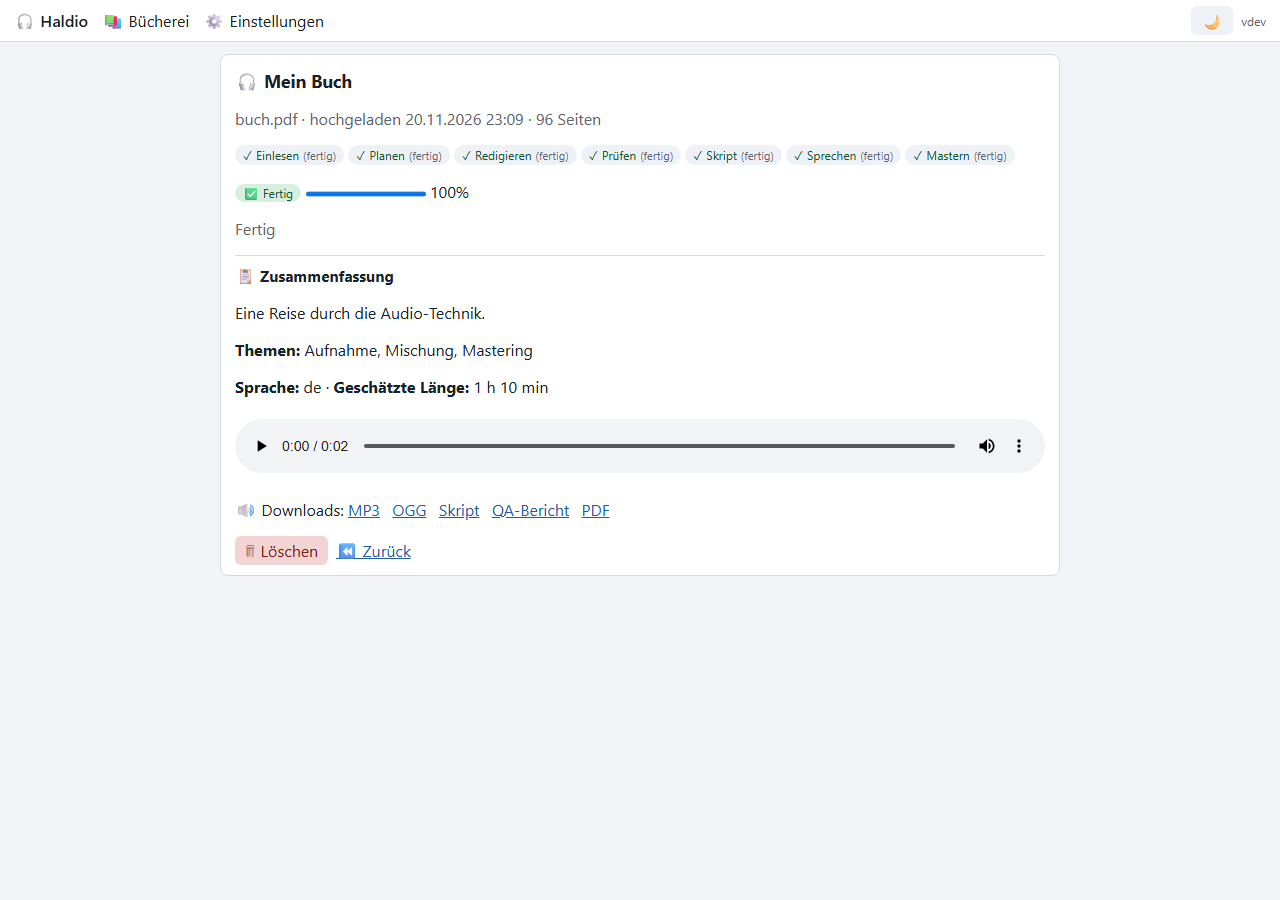
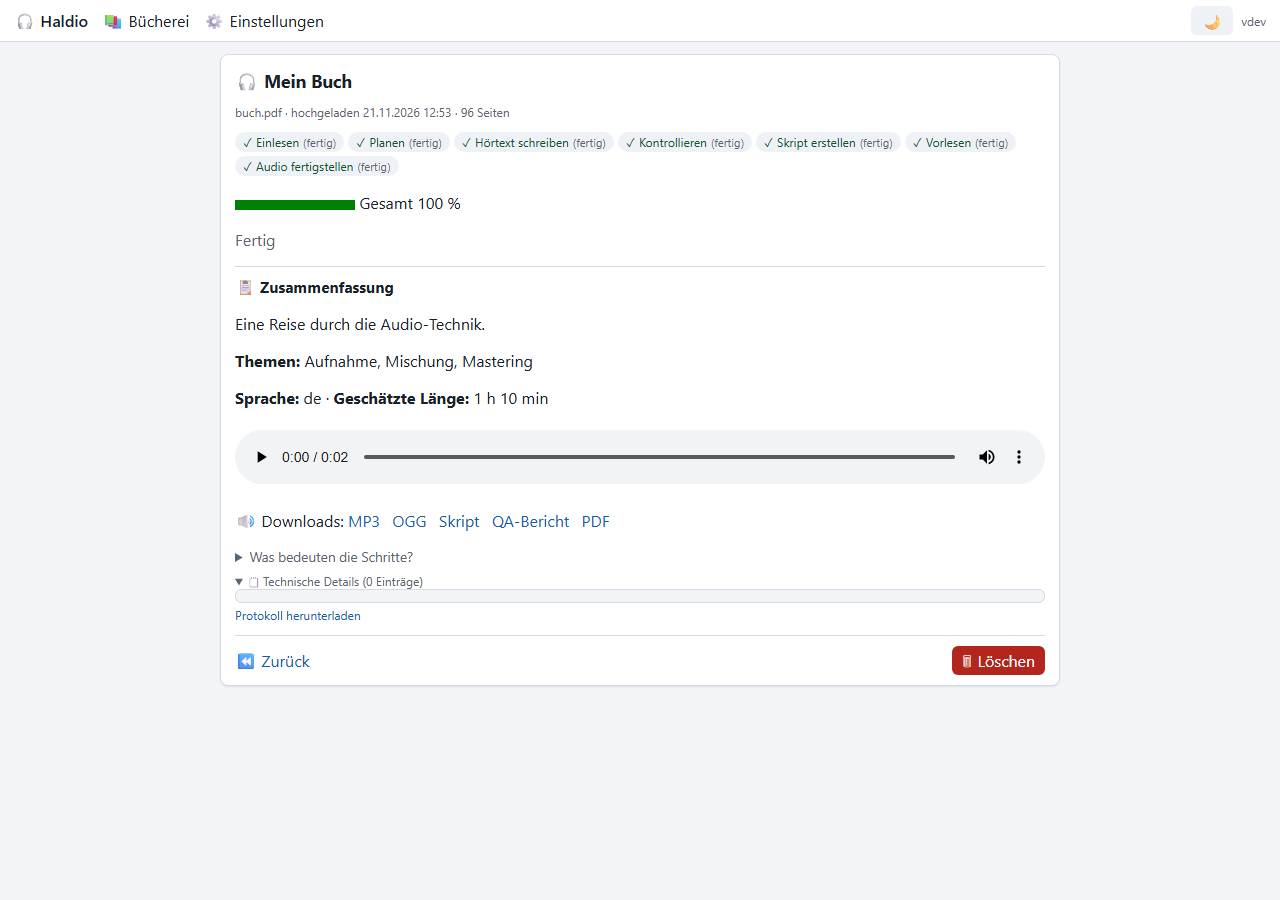
docs(web): correction 5 section 9 - README web section on correction 5 state, fresh light+dark screenshots from mock data, PROGRESS closed

Changed region(s): [[0.1875, 0.1244, 0.7812, 0.5289], [0.1875, 0.56, 0.4688, 0.7467], [0.7188, 0.7156, 0.8438, 0.7778]]

diff --git a/scripts/screenshots.py b/scripts/screenshots.py
@@ -52,7 +52,7 @@ def _seed(index: JobIndex) -> dict[str, str]:
     running.title = "Handbuch der Technik"
     running.status = "speaking"
     running.progress = 66
-    running.message = "Einheit 12 von 957 · noch ca. 42 min"
+    running.message = "Einheit 12 von 957 · noch etwa 42 min"
     running.page_count = 120
     running.logs = [
         "10:12:03 editing 42%",

diff --git a/README.md b/README.md
@@ -56,21 +56,25 @@ Open http://127.0.0.1:8505 (German user interface).
   "Skript vor der Sprachausgabe prüfen" option; the job list shows title, file,
   pages, audio length, date, a German status badge and progress, newest first.
   A banner counts jobs waiting in the ready2tts pool ("Alle TTS starten").
-- **Job page** — a seven-stage stepper (Einlesen → … → Mastern) with state text,
-  progress bar and current message; during Sprechen it counts units
+- **Job page** — a seven-stage stepper (Einlesen → … → Audio fertigstellen) with state text,
+  progress bar ("Gesamt N %") and a "Gerade:" box that explains the current step and shows
+  the live detail from a single activity record; during Vorlesen it counts units
   ("Einheit 12 von 957") and shows an ETA measured from this run's finished
-  units, never a hard-coded factor. A summary card appears once the plan exists;
+  units, never a hard-coded factor. A summary card appears once the plan exists (placeholders
+  read "Wird erstellt …");
   a result card offers `<audio controls>` and downloads (MP3, OGG, Skript,
   QA-Bericht, PDF — named after the PDF title) for files that exist.
   Actions follow the state: Abbrechen, Weiter, Neu starten, Skript prüfen,
-  Löschen (dialog). The log lives in a collapsed `<details>`.
+  Löschen (dialog, far right and hidden while the job runs). The log lives in a collapsed
+  `<details>` ("Technische Details").
 - **Skript prüfen** — original text next to the edited script per chunk, chapter
   title in the header, readable warnings, save per chunk with HTMX ("Gespeichert"
   toast) and a "Nur Warnungen anzeigen" filter.
 - **Einstellungen** — read-only config table; "Test LM Studio" and "Test TTS"
   show a spinner and a clear result next to the button (TTS respects the model
   guard: the LLM must be unloaded first).
-- Light and dark theme (system preference, switchable, remembered). No Node.js:
+- Light and dark theme (system preference, switchable, remembered). The top bar sticks
+  on scroll and marks the current page. No Node.js:
   FastAPI + Jinja2 + a vendored htmx, so the UI works offline.
 
 Screenshots of all four pages in both themes: `docs/screenshots/`

diff --git a/docs/PROGRESS.md b/docs/PROGRESS.md
@@ -336,3 +336,18 @@ became a time-shifted process.
 - Section 7, top bar: done - the bar sticks to the top while scrolling; the current page is marked in the navigation (`aria-current="page"`, accent colour); job pages mark neither link.
 - Section 8, settings page: done - the effective-config table also shows the data directory ("Daten") and the editor prompt version ("Hörtext-Prompt"); no secrets are rendered (the API key stays out of the page).
 - Tests: 133 pass - stylesheet assertions for the polish rules, active-page marking per route, settings rows.
+
+## Correction 5 - section 9 Tests, screenshots, finish
+
+- Tests: 133 pass, ruff clean (src + tests) - full suite green at the end of the correction.
+- Screenshots: regenerated - `scripts/screenshots.py` (temp data dir, mock backend, port 8765 -
+  the live `haldio serve` and `data/` were never touched) captured library, running job,
+  finished job and review in light AND dark into `docs/screenshots/`; the seed message now
+  shows the current wording ("noch etwa").
+- README: done - the "Web interface" section describes the correction 5 state (Gerade box,
+  Gesamt %, card-bottom actions with Loeschen hidden while running, sticky top bar with
+  active-page mark).
+- Reviewer: sections 5, 6-8 were each reviewed by the implementation-reviewer subagent;
+  all justified change points were applied before the commits.
+
+Stop - waiting for the owner's OK on the screenshots.
